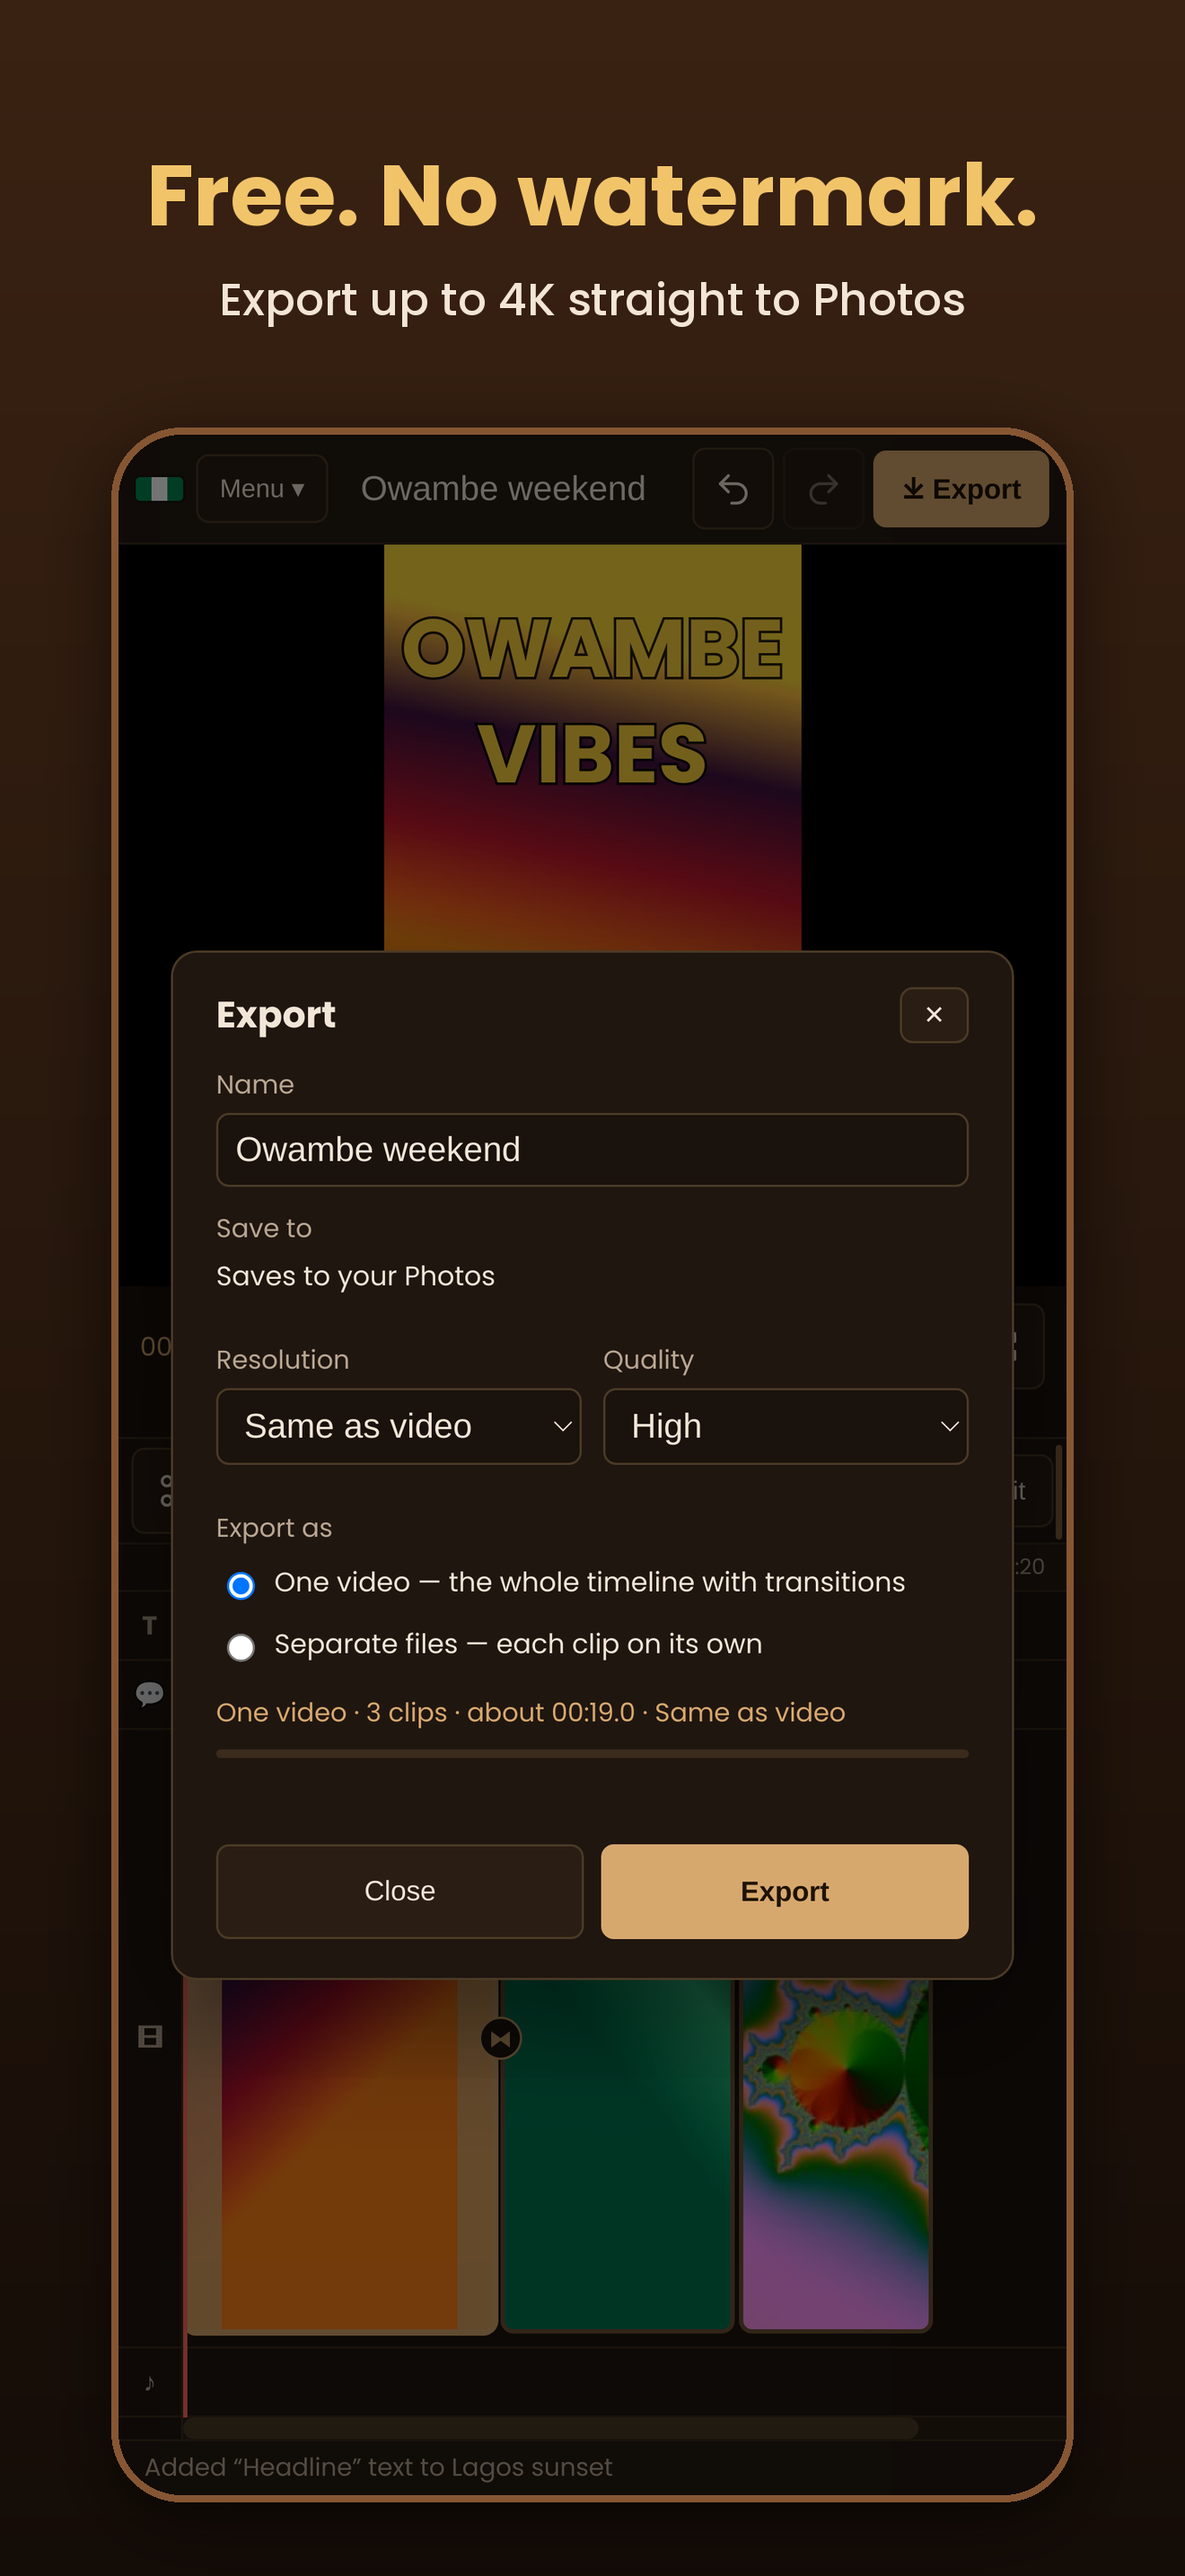
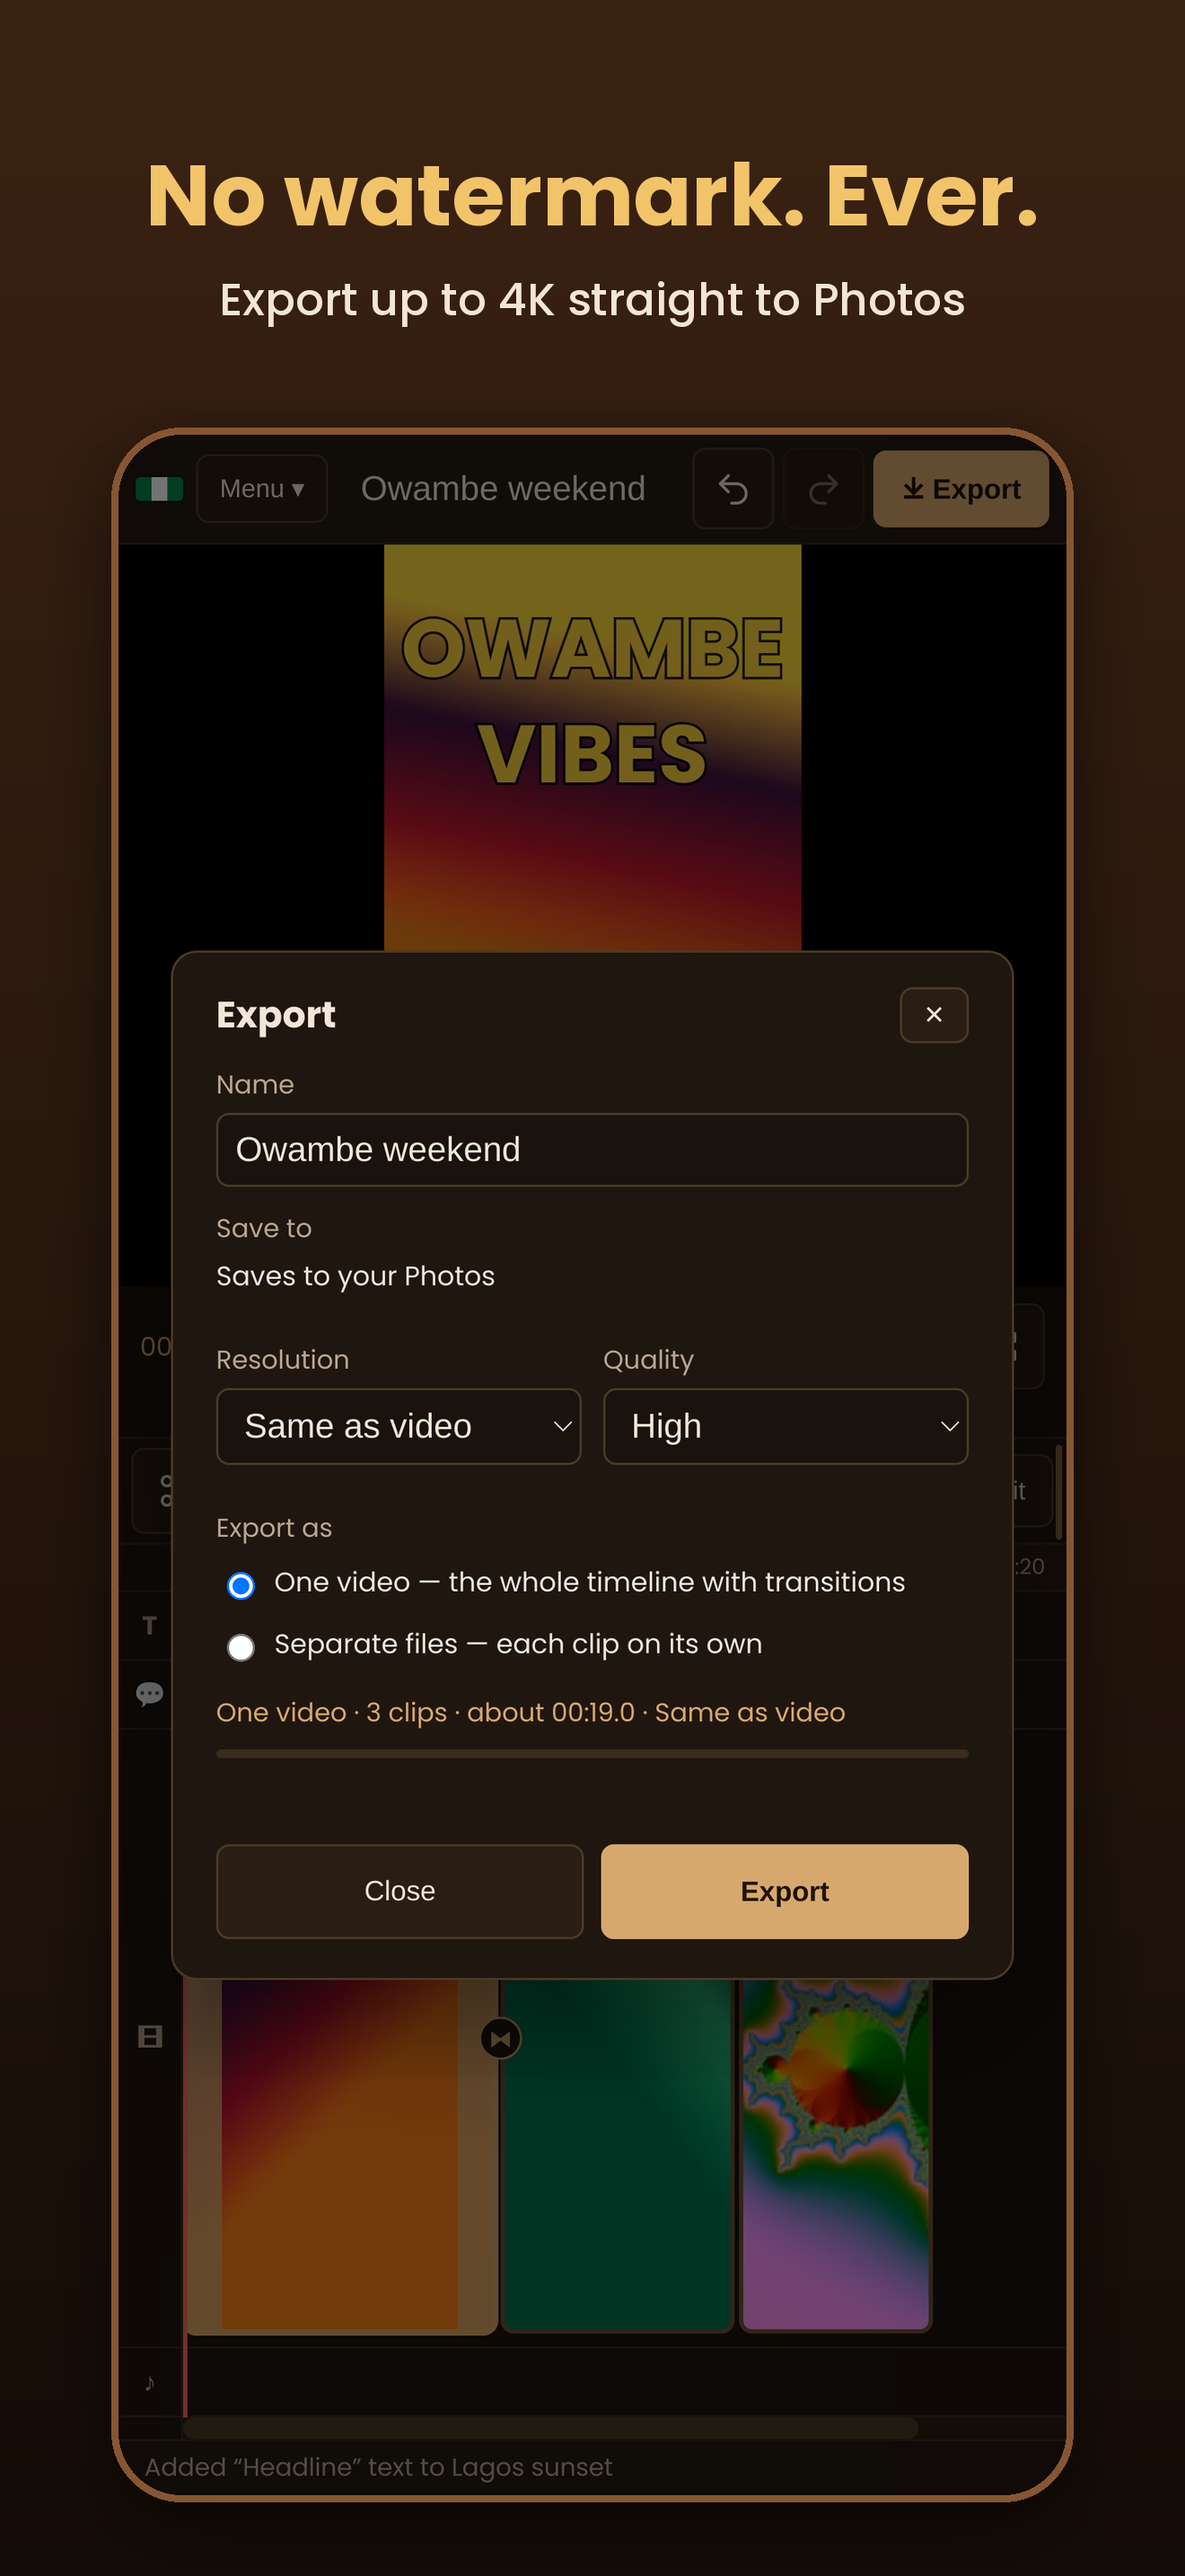
App Store screenshots: no price words (Guideline 2.3.7)
07: 'Free. No watermark.' -> 'No watermark. Ever.'; 04: the '50% OFF / Sale'
title style shown as 'NEW DROP / Promo'. New 'screenshots' mode replaces
only the screenshots.

Claude-Session: https://claude.ai/code/session_019t7kUU8kZ5qSYfq2LkvmLa

Changed region(s): [[0.1242, 0.0621, 0.8697, 0.0931]]

diff --git a/scripts/appstore.py b/scripts/appstore.py
@@ -456,6 +456,15 @@ if META.get('only') == 'status':
     note(f"Build in review: {b['attributes']['version'] if b else 'none'} ({b['attributes']['processingState'] if b else '-'})")
     print(f"::notice title=Summary::{' || '.join(log)[:3800]}", flush=True)
     sys.exit(0)
+if META.get('only') == 'screenshots':
+    # Only replace the screenshots (e.g. after App Review flagged one).
+    def find_loc():
+        locs = call('GET', f"/v1/appStoreVersions/{state['version']}/appStoreVersionLocalizations")['data']
+        loc = next((l for l in locs if l['attributes']['locale'] == META.get('locale', 'en-US')), locs[0])
+        state['versionLoc'] = loc['id']
+    ok = step('find the listing language', find_loc) and step('screenshots', screenshots)
+    print(f"::{'notice' if ok else 'error'} title=Summary::{' || '.join(log + problems)[:3800]}", flush=True)
+    sys.exit(0 if ok else 1)
 if META.get('only') == 'review':
     # Only the App Review contact and notes (e.g. answering an App Review message).
     ok = step('App Review contact and notes', review_details)

diff --git a/mobile/branding/frame-screenshots.py b/mobile/branding/frame-screenshots.py
@@ -22,7 +22,7 @@ SHOTS = [
     ('raw-4-text.png', 'Titles in one tap', 'Bold styles for TikTok, Reels and Status'),
     ('raw-5-transitions.png', 'Smooth transitions', 'Crossfade, slide, wipe, circle open…'),
     ('raw-6-promo.png', 'Business promo videos', '52 styles. Add your photos and go'),
-    ('raw-7-export.png', 'Free. No watermark.', 'Export up to 4K straight to Photos'),
+    ('raw-7-export.png', 'No watermark. Ever.', 'Export up to 4K straight to Photos'),
 ]
 
 W, H = 1320, 2868
